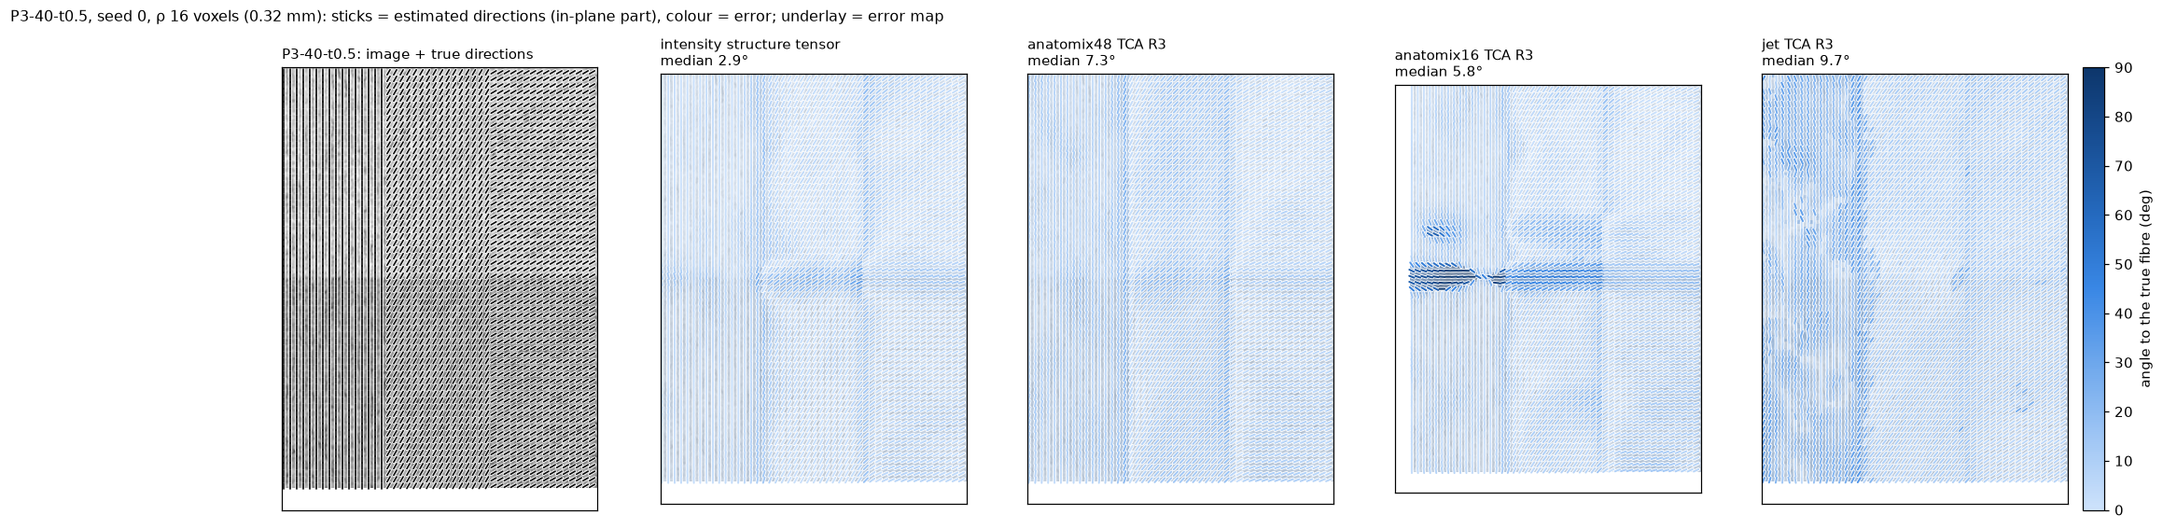
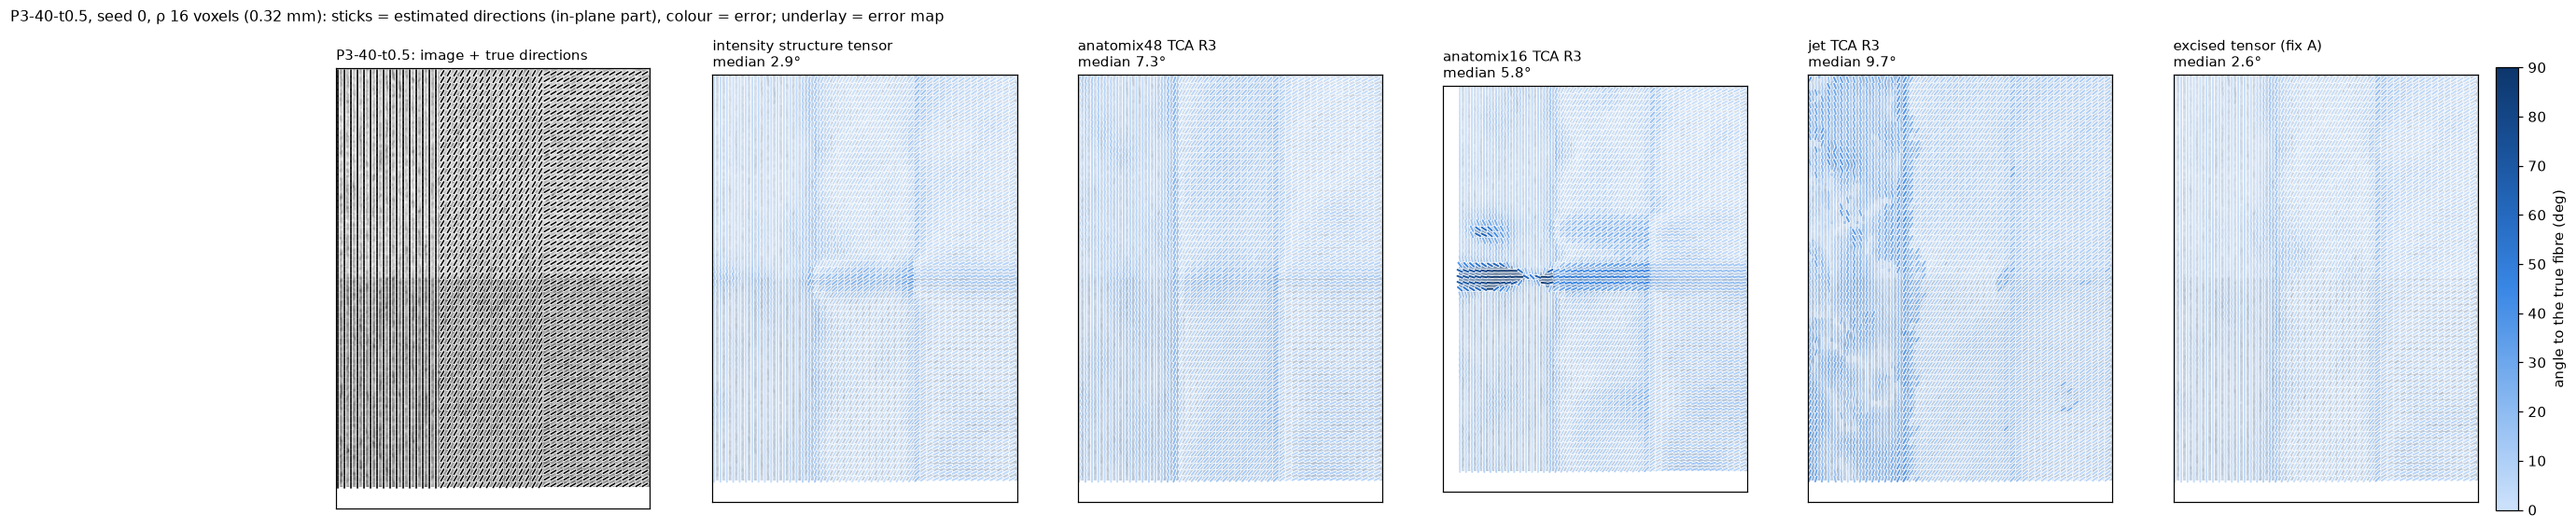
Glyph figures: the excised-tensor panel

diff --git a/scripts/fig_glyphs.py b/scripts/fig_glyphs.py
@@ -22,7 +22,7 @@ SEQ = ["#cde2fb", "#9ec5f4", "#6da7ec", "#3987e5", "#256abf", "#184f95", "#0d366
 INK, GRID = "#0b0b0b", "#e1e0d9"
 ARMS = [("single", "intensity", "eigen", "intensity structure tensor"), ("single", "anatomix48", "tca", "anatomix48 TCA R3"),
         ("single", "anatomix16", "tca", "anatomix16 TCA R3"), ("single", "jet", "tca", "jet TCA R3"),
-        ("hybrid", "anatomix48", "excise_all", "excised tensor (fix A)")]
+        ("hybrid", "excised-anatomix48", "excise_all", "excised tensor (fix A)")]
 POP = ["#6250d6", "#e34948", "#eda100"]
 
 
